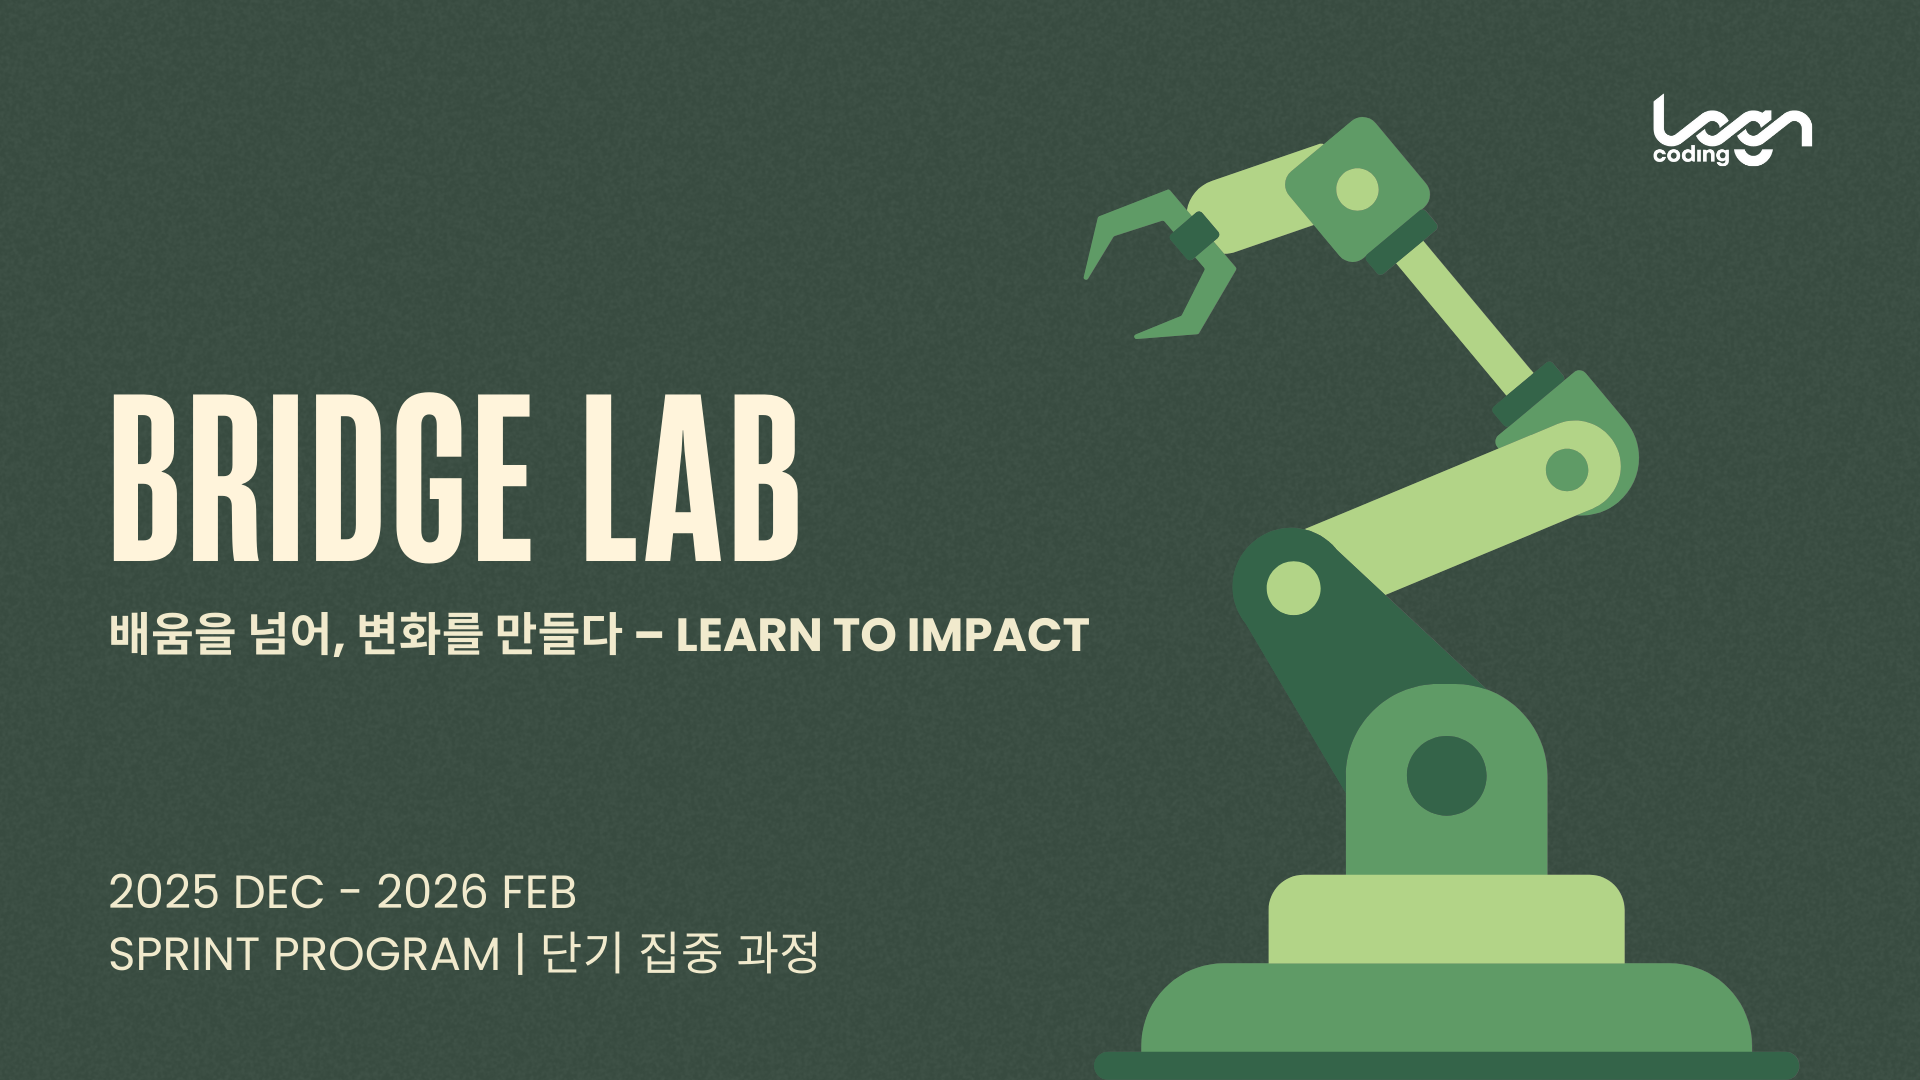
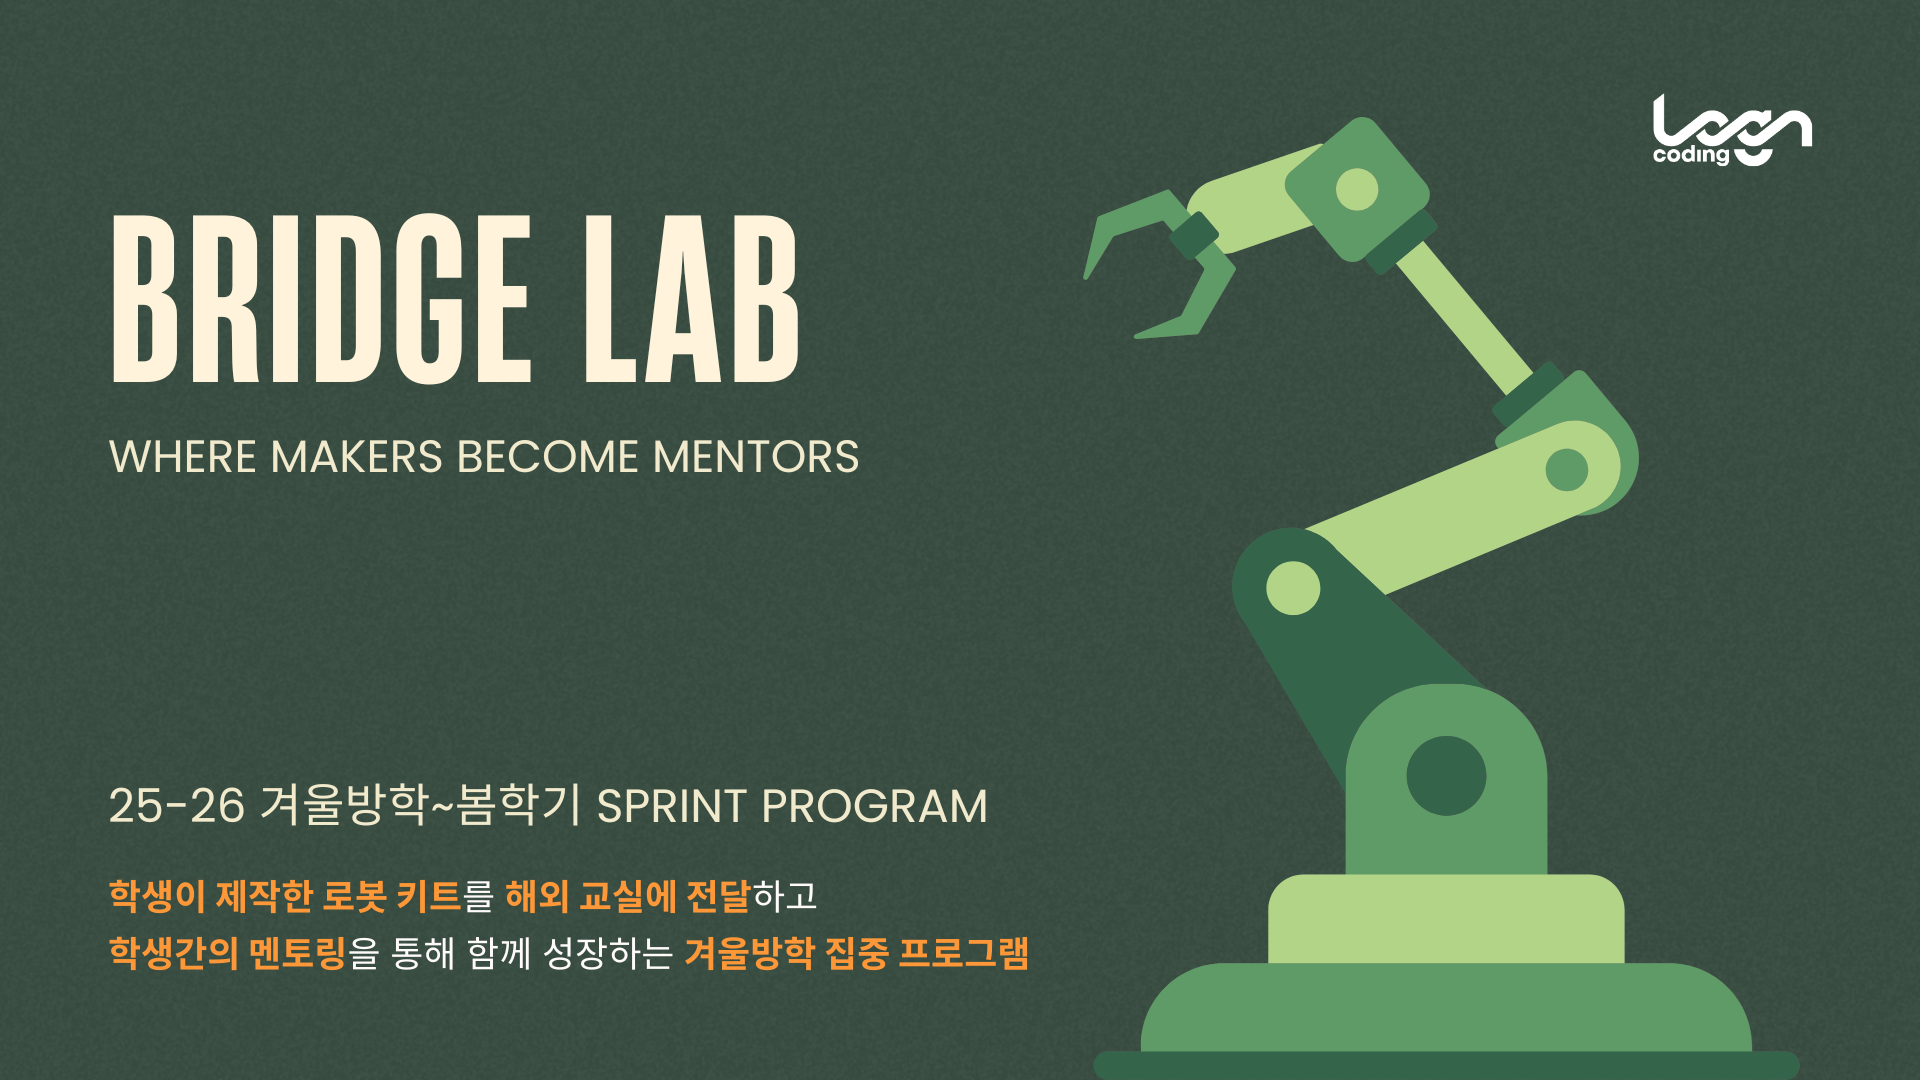
refactor: layout changes to sprint ongoing list

diff --git a/src/assets/js/sprint.js b/src/assets/js/sprint.js
@@ -13,7 +13,7 @@ const ongoingHtml = sprint
       <span class="text-5xl font-bold w-12 block text-center border-b pb-1.5 border-flamingo-500 text-zinc-300">${i + 1}</span>
       <div class="space-y-2">
         <p class="text-3xl font-semibold">${p.name}</p>
-        <p class="font-medium">Client | Partner: ${p.client}</p>
+        ${p.client && `<p class="font-medium">Client | Partner: ${p.client}</p>`}
       </div>
       <div class="space-y-2">
         <p class="text-zinc-600 italic">Term: ${p.duration}</p>
@@ -33,25 +33,26 @@ const ongoingHtml = sprint
         </div>
       </div>
       <p class="leading-7 break-keep whitespace-pre-line">${p.description}</p>
-      ${
-        p.link
-          ? `
-        <div class="flex gap-2 flex-col sm:flex-row">
-          <a href="${p.link}" class="btn white !bg-zinc-800">
-            <span>프로젝트 상세보기</span>
+      <div class="flex gap-2 flex-col sm:flex-row">
+          ${
+            p.link &&
+            `
+            <a href="${p.link}" class="btn white !bg-zinc-800">
+            <span>자세히 보기</span>
             <span class="heroicons--arrow-long-right"></span>
           </a>
-          <button
-            type="button"
-            data-modal-target="contactForm"
-            data-modal-show="contactForm"
-            class="btn white">
-            <span>스프린트 문의하기</span>
-          </button>
-        </div>
-        `
-          : ''
-      }
+            `
+          }
+            ${
+              p.form &&
+              `
+              <a href="${p.form}" class="btn white">
+            <span>Apply Now</span>
+            <span class="heroicons--arrow-long-right"></span>
+          </a>
+              `
+            }
+      </div>
     </div>
     <div class="flex-1">
       <img
